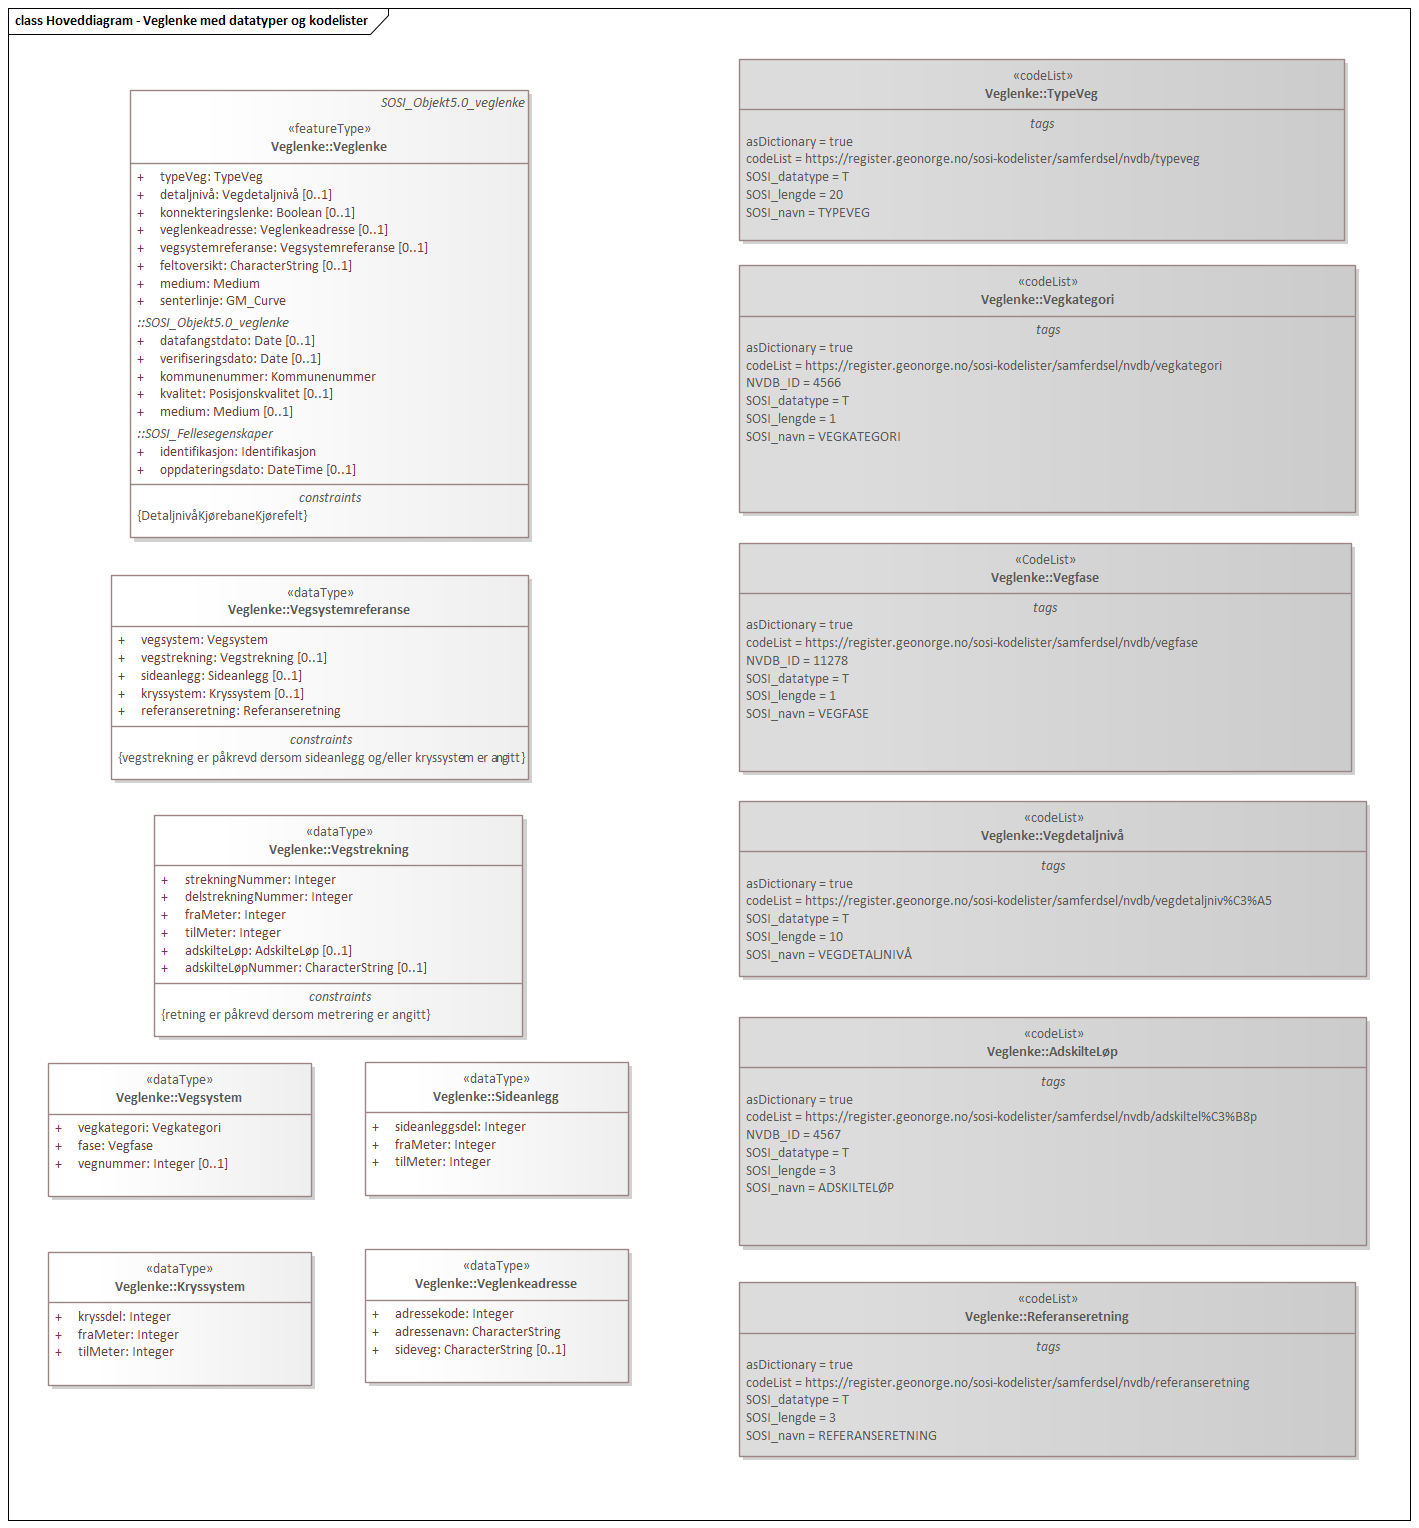
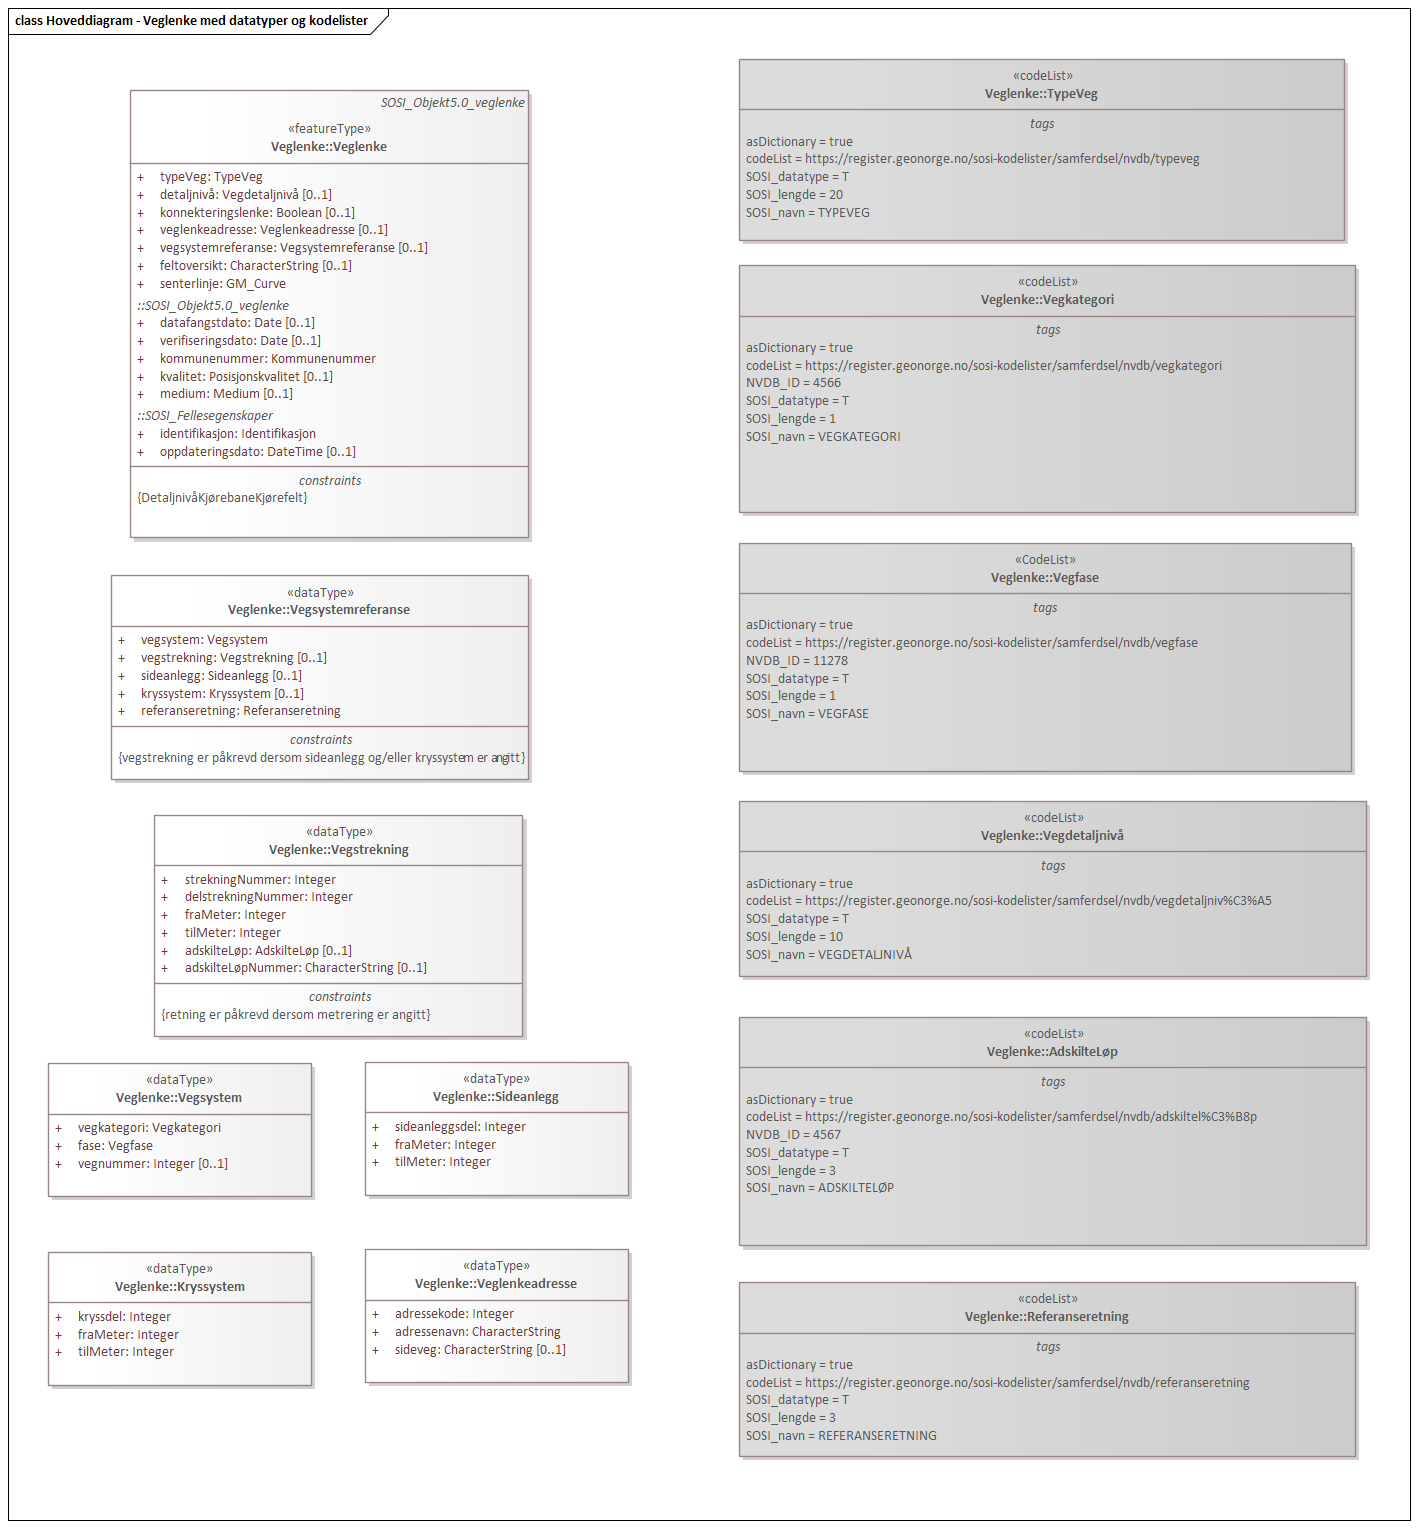
Ny dokumentasjon

Changed region(s): [[0.093, 0.1846, 0.2481, 0.3384]]

diff --git a/produktspesifikasjonNVDBVegnettPlus/index.html b/produktspesifikasjonNVDBVegnettPlus/index.html
@@ -1542,34 +1542,6 @@ Merknad: Komplett vegadresse består i tillegg av husnummer og bokstav</p></td>
 <tbody>
 <tr>
 <td class="tableblock halign-left valign-top"><p class="tableblock"><strong>Navn:</strong></p></td>
-<td class="tableblock halign-left valign-top"><p class="tableblock"><strong>medium</strong></p></td>
-</tr>
-<tr>
-<td class="tableblock halign-left valign-top"><p class="tableblock">Definisjon:</p></td>
-<td class="tableblock halign-left valign-top"><p class="tableblock">objektets beliggenhet i forhold til jordoverflaten</p></td>
-</tr>
-<tr>
-<td class="tableblock halign-left valign-top"><p class="tableblock">Multiplisitet:</p></td>
-<td class="tableblock halign-left valign-top"><p class="tableblock">[1..1]</p></td>
-</tr>
-<tr>
-<td class="tableblock halign-left valign-top"><p class="tableblock">Type:</p></td>
-<td class="tableblock halign-left valign-top"><p class="tableblock"><a href="#appmedium">«CodeList» Medium</a></p></td>
-</tr>
-<tr>
-<td class="tableblock halign-left valign-top"><p class="tableblock">defaultCodeSpace</p></td>
-<td class="tableblock halign-left valign-top"><p class="tableblock"><a href="https://register.geonorge.no/sosi-kodelister/fkb/generell/5.0/medium" class="bare">https://register.geonorge.no/sosi-kodelister/fkb/generell/5.0/medium</a></p></td>
-</tr>
-</tbody>
-</table>
-<table class="tableblock frame-all grid-all stretch">
-<colgroup>
-<col style="width: 20%;">
-<col style="width: 80%;">
-</colgroup>
-<tbody>
-<tr>
-<td class="tableblock halign-left valign-top"><p class="tableblock"><strong>Navn:</strong></p></td>
 <td class="tableblock halign-left valign-top"><p class="tableblock"><strong>senterlinje</strong></p></td>
 </tr>
 <tr>
@@ -8971,13 +8943,6 @@ Kommuner utenfor Geovekst gjør tilsvarende vedlikehold i egen regi og leverer d
 <td class="tableblock halign-left valign-top"><p class="tableblock">[0..1]</p></td>
 <td class="tableblock halign-left valign-top"><p class="tableblock">..FELTOVERSIKT</p></td>
 <td class="tableblock halign-left valign-top"><p class="tableblock">T50</p></td>
-</tr>
-<tr>
-<td class="tableblock halign-left valign-top"><p class="tableblock">medium</p></td>
-<td class="tableblock halign-left valign-top"><p class="tableblock">«CodeList» Medium</p></td>
-<td class="tableblock halign-left valign-top"><p class="tableblock">[1..1]</p></td>
-<td class="tableblock halign-left valign-top"><p class="tableblock">..MEDIUM</p></td>
-<td class="tableblock halign-left valign-top"><p class="tableblock">T1</p></td>
 </tr>
 <tr>
 <td class="tableblock halign-left valign-top"><p class="tableblock">senterlinje</p></td>
